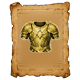
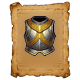
feat(loot): дроп-иконки металлов деривацией (downscale+наклон); золото-снаряжение не монета
tests/gen_loot_icons_derived.py: alpha-crop, поворот 20 (BICUBIC), squash 0.80 (LANCZOS), fit 28; вариант v2_tilt20_squash выбран игроком по контакт-листу и проверен в игре. gold_{weapon,armor}.png созданы впервые; loot_icons.gd: 19-20 металлов, золотое снаряжение рисуется снаряжением (деньги - по-прежнему монета, контракт gold_icon() цел). Свитки рецептов bronze/gold/iron перепечены с новыми иконками металлов (gen_recipe_scrolls.py, item_db без диффа). ИИ-путь gen_loot_icons_kodik.py закрыт квотой 429 - оставлен для истории.

Changed region(s): [[0.25, 0.2, 0.75, 0.725]]

diff --git a/tests/gen_loot_icons_derived.py b/tests/gen_loot_icons_derived.py
@@ -1,0 +1,236 @@
+#!/usr/bin/env python3
+# -*- coding: utf-8 -*-
+"""Дроп-иконки основных металлов: программное уменьшение + наклон одобренных иконок.
+
+ЗАЧЕМ: ИИ-генерация дроп-иконок (tests/gen_loot_icons_kodik.py) встала на квоте
+Gemini (429, журнал 20.10). Дроп-иконка по замыслу — «та же вещь, лежащая на
+земле»: уменьшенный наклонённый силуэт одобренной инвентарной иконки даёт это
+программно, без генераций и без расходов. Источник — уже установленные и
+одобренные игроком иконки атласа предметов (faction_w/common — оружие,
+faction/common — броня); резолв через glob по установленным путям, суффикс
+качества (cheap/common/elite) не хардкодится.
+
+ПРАВИЛО ИГРОКА: ничего не ставится в assets/ без личного одобрения. По умолчанию
+скрипт пишет 4 ВАРИАНТА трансформации в import/loot_icons_derived/ и собирает
+подписанный контакт-лист через skill-скрипт create-game-assets
+(scripts/build_preview_sheet.py). Выбор варианта — за игроком; только затем
+запускается --install, копирующий выбранный вариант в assets/loot_icons/.
+
+РЕСЕМПЛИНГ: downscale LANCZOS + rotate BICUBIC — сознательное отступление от
+«nearest only» из references/raster-pipeline.md: это deliberate preprocessing
+pass маленьких иконок (поворот nearest даёт рваную лесенку), как решено ранее
+в tests/slice_items_atlas.py.
+
+ПОРЯДОК ПРЕОБРАЗОВАНИЙ: alpha-crop → rotate(expand, BICUBIC) → вертикальный
+squash (LANCZOS) → масштаб до fit_px по большей стороне → центровка на холст
+32×32. Масштаб ПОСЛЕ поворота гарантирует, что наклонённый силуэт не вылезет за
+холст (bbox при повороте растёт).
+
+ВАРИАНТЫ (для выбора игроком):
+  v0_flat           — без наклона, только уменьшение
+  v1_tilt10         — наклон 10°
+  v2_tilt20_squash  — наклон 20° + вертикальный squash 0.80 (рекомендация)
+  v3_tilt30_squash  — наклон 30° + вертикальный squash 0.78
+
+Запуск:
+    python tests/gen_loot_icons_derived.py                 # варианты + лист
+    python tests/gen_loot_icons_derived.py --report        # только отчёт
+    python tests/gen_loot_icons_derived.py --variant v2_tilt20_squash --install
+    python tests/gen_loot_icons_derived.py --metals bronze,iron --angle 15
+"""
+
+from __future__ import annotations
+
+import argparse
+import glob as globmod
+import os
+import shutil
+import subprocess
+import sys
+
+from PIL import Image
+
+ROOT = os.path.dirname(os.path.dirname(os.path.abspath(__file__)))
+OUT_DIR = os.path.join(ROOT, "import", "loot_icons_derived")
+LOOT_DIR = os.path.join(ROOT, "assets", "loot_icons")
+SKILL_SHEET = os.path.join(
+    ROOT, ".agents", "skills", "disciplines", "create-game-assets",
+    "scripts", "build_preview_sheet.py",
+)
+SHEET_PATH = os.path.join(OUT_DIR, "_contact_sheet.png")
+
+# Основные металлы (METALS из tests/gen_items_atlas_kodik.py). Steel исключён:
+# его иконки уже есть как base/base_w, а редкие металлы loot_icons не трогаем.
+DEFAULT_METALS = ["bronze", "iron", "gold"]
+
+# Вид -> glob по УСТАНОВЛЕННЫМ одобренным иконкам (не import/_sliced: там
+# суффиксы _good, а установлены _cheap/_common/_elite).
+SOURCE_GLOBS = {
+    "weapon": os.path.join(ROOT, "assets", "items", "faction_w", "common",
+                           "%(metal)s_one_handed_sword_*.png"),
+    "armor": os.path.join(ROOT, "assets", "items", "faction", "common",
+                          "%(metal)s_heavy_chest_*.png"),
+}
+
+# имя варианта -> (угол поворота в градусах, вертикальный squash)
+VARIANTS: dict[str, tuple[float, float]] = {
+    "v0_flat": (0.0, 1.0),
+    "v1_tilt10": (10.0, 1.0),
+    "v2_tilt20_squash": (20.0, 0.80),
+    "v3_tilt30_squash": (30.0, 0.78),
+}
+
+DEFAULT_FIT = 28  # содержимое не больше 28 px внутри холста 32×32
+DEFAULT_CANVAS = 32
+
+
+def resolve_sources(metals: list[str]) -> tuple[dict[tuple[str, str], str], list[str]]:
+    """(metal, kind) -> путь источника; второй возврат — список проблем."""
+    srcs: dict[tuple[str, str], str] = {}
+    problems: list[str] = []
+    for metal in metals:
+        for kind, pattern in SOURCE_GLOBS.items():
+            hits = sorted(globmod.glob(pattern % {"metal": metal}))
+            if not hits:
+                problems.append("%s/%s: нет источника по %s"
+                                % (metal, kind, pattern % {"metal": metal}))
+                continue
+            srcs[(metal, kind)] = hits[0]
+            if len(hits) > 1:
+                print("  ! %s/%s: несколько кандидатов, взят первый: %s"
+                      % (metal, kind, ", ".join(os.path.basename(h) for h in hits)))
+    return srcs, problems
+
+
+def derive(src: Image.Image, angle: float, squash: float, fit_px: int,
+           canvas_size: int) -> Image.Image:
+    """Одобренная иконка -> дроп-иконка: crop, поворот, squash, масштаб, центр."""
+    img = src.convert("RGBA")
+    alpha = img.split()[-1]
+    bbox = alpha.getbbox()
+    if bbox is None:
+        raise ValueError("источник полностью прозрачен")
+    img = img.crop(bbox)
+    if angle:
+        img = img.rotate(angle, resample=Image.Resampling.BICUBIC, expand=True)
+    if squash != 1.0:
+        h = max(1, round(img.height * squash))
+        img = img.resize((img.width, h), Image.Resampling.LANCZOS)
+    scale = min(1.0, fit_px / max(img.width, img.height))
+    if scale < 1.0:
+        img = img.resize(
+            (max(1, round(img.width * scale)), max(1, round(img.height * scale))),
+            Image.Resampling.LANCZOS,
+        )
+    canvas = Image.new("RGBA", (canvas_size, canvas_size), (0, 0, 0, 0))
+    canvas.alpha_composite(
+        img,
+        ((canvas_size - img.width) // 2, (canvas_size - img.height) // 2),
+    )
+    return canvas
+
+
+def build_sheet(files: list[str]) -> bool:
+    """Контакт-лист через skill-скрипт create-game-assets (подписи = имена файлов)."""
+    if not os.path.isfile(SKILL_SHEET):
+        print("  ! skill-скрипт не найден, лист не построен: %s" % SKILL_SHEET)
+        return False
+    cmd = [sys.executable, SKILL_SHEET, *files,
+           "--out", SHEET_PATH, "--columns", "4", "--cell-size", "160"]
+    r = subprocess.run(cmd, capture_output=True, text=True)
+    if r.returncode != 0:
+        print("  ! контакт-лист не построился: %s" % (r.stderr.strip() or r.stdout.strip()))
+        return False
+    print("  OK лист: %s" % os.path.relpath(SHEET_PATH, ROOT))
+    return True
+
+
+def main() -> int:
+    ap = argparse.ArgumentParser()
+    ap.add_argument("--metals", default=",".join(DEFAULT_METALS),
+                    help="металлы через запятую (по умолчанию bronze,iron,gold)")
+    ap.add_argument("--angle", type=float, default=None,
+                    help="угол наклона для варианта custom (градусы)")
+    ap.add_argument("--squash", type=float, default=None,
+                    help="вертикальный squash для варианта custom (1.0 = нет)")
+    ap.add_argument("--fit", type=int, default=DEFAULT_FIT,
+                    help="максимальная сторона содержимого, px (по умолчанию 28)")
+    ap.add_argument("--size", type=int, default=DEFAULT_CANVAS,
+                    help="сторона выходного холста, px (по умолчанию 32)")
+    ap.add_argument("--variant", default=None,
+                    help="один вариант из списка (для точечной установки)")
+    ap.add_argument("--install", action="store_true",
+                    help="скопировать выбранный вариант в assets/loot_icons/")
+    ap.add_argument("--report", action="store_true",
+                    help="только отчёт по источникам, файлы не писать")
+    ap.add_argument("--no-sheet", action="store_true",
+                    help="не строить контакт-лист")
+    args = ap.parse_args()
+
+    metals = [m.strip().lower() for m in args.metals.split(",") if m.strip()]
+    if args.angle is not None or args.squash is not None:
+        todo = {"custom": (args.angle or 0.0, args.squash if args.squash is not None else 1.0)}
+    elif args.variant:
+        if args.variant not in VARIANTS:
+            print("RESULT: FAIL — нет варианта %s (есть: %s)"
+                  % (args.variant, ", ".join(VARIANTS)))
+            return 1
+        todo = {args.variant: VARIANTS[args.variant]}
+    else:
+        todo = dict(VARIANTS)
+
+    srcs, problems = resolve_sources(metals)
+    if problems:
+        for p in problems:
+            print("  ! %s" % p)
+        print("RESULT: FAIL — не найдены источники (%d)" % len(problems))
+        return 1
+
+    print("-- источники (одобрены игроком 20.10) --")
+    for (metal, kind), path in sorted(srcs.items()):
+        with Image.open(path) as im:
+            size = "%dx%d" % (im.width, im.height)
+        print("  %s/%s: %s (%s)" % (metal, kind, os.path.relpath(path, ROOT), size))
+    if args.report:
+        print("DRY-RUN: вариантов %d, металлов %d" % (len(todo), len(metals)))
+        print("RESULT: OK report")
+        return 0
+
+    os.makedirs(OUT_DIR, exist_ok=True)
+    written: list[str] = []
+    print("-- деривация: crop -> rotate -> squash -> fit %d -> canvas %d --"
+          % (args.fit, args.size))
+    for (metal, kind), src_path in sorted(srcs.items()):
+        with Image.open(src_path) as src:
+            for vname, (angle, squash) in sorted(todo.items()):
+                img = derive(src, angle, squash, args.fit, args.size)
+                name = "%s_%s_%s.png" % (metal, kind, vname)
+                out_path = os.path.join(OUT_DIR, name)
+                img.save(out_path, "PNG")
+                written.append(out_path)
+                print("  OK %s (угол %.0f, squash %.2f)" % (name, angle, squash))
+
+    if todo and not args.no_sheet:
+        build_sheet(written)
+
+    if args.install:
+        if len(todo) != 1:
+            print("RESULT: FAIL — --install требует ровно один вариант (--variant или --angle/--squash)")
+            return 1
+        vname = next(iter(todo))
+        copied = 0
+        for (metal, kind), _src in sorted(srcs.items()):
+            src_png = os.path.join(OUT_DIR, "%s_%s_%s.png" % (metal, kind, vname))
+            dst = os.path.join(LOOT_DIR, "%s_%s.png" % (metal, kind))
+            shutil.copyfile(src_png, dst)
+            copied += 1
+            print("  OK install %s -> %s" % (os.path.basename(src_png), os.path.relpath(dst, ROOT)))
+        print("Установлено: %d (вариант %s)" % (copied, vname))
+
+    print("Итого файлов: %d" % len(written))
+    print("RESULT: OK loot_icons_derived (%d металлов, %d вариантов)" % (len(metals), len(todo)))
+    return 0
+
+
+if __name__ == "__main__":
+    sys.exit(main())

diff --git a/tests/gen_loot_icons_kodik.py b/tests/gen_loot_icons_kodik.py
@@ -1,0 +1,86 @@
+#!/usr/bin/env python3
+"""Дроп-иконки (видна на земле при выпадении из НПЦ) для 3 металлов (20.10).
+
+Отличие от gen_items_atlas_kodik.py (иконки инвентаря): здесь предмет лежит
+НА ЗЕМЛЕ, вид чуть сверху (как в игре смотрит герой), читаемый силуэт.
+Раскладка и карты ячеек - те же, что у инвентарных атласов, поэтому нарезка
+идёт тем же slice_items_atlas.py (импорт WEAPON_MAP/ARMOR_MAP/slice_sheet).
+
+Usage:
+  python tests/gen_loot_icons_kodik.py                # 6 листов
+  python tests/gen_loot_icons_kodik.py --only bronze  # один металл
+"""
+import argparse
+import sys
+from pathlib import Path
+
+sys.path.insert(0, str(Path(__file__).resolve().parent))
+import gen_items_atlas_kodik as G  # noqa: E402
+from gen_image_kodik import load_key  # noqa: E402
+
+REPO = Path(__file__).resolve().parent.parent
+OUT_ROOT = REPO / "import" / "loot_icons"
+
+GROUND_STYLE = (
+    "Sprite sheet for game, retro fantasy RPG pixel art dropped loot icons, "
+    "32-bit era style, crisp pixel edges, dark tinted outline (not pure "
+    "black), light from upper left, each item LYING FLAT ON THE GROUND as "
+    "if dropped by a defeated monster, slight top-down three-quarter view, "
+    "flat solid magenta #FF00FF background, items laid out in a neat "
+    "regular GRID with equal spacing, each item centered in its grid cell, "
+    "item fully inside its cell, no small details, no ribbons, no banners, "
+    "no straps, no text, no labels, no numbers, no shadows outside items"
+)
+
+
+def loot_prompt(metal: str, info: dict, kind: str) -> str:
+    if kind == "weapons":
+        lines = [f"{G.WEAPON_DESC[w]} made of {info['desc']}" for w in G.WEAPONS]
+        n = len(G.WEAPONS)
+    else:
+        lines = [f"{G.ARMOR_DESC[a]} with {info['desc']} accents" for a in G.ARMOR]
+        n = len(G.ARMOR)
+    return (f"4x4 grid sheet with exactly {n} icons, one per cell, "
+            f"reading order left to right top to bottom: " + "; ".join(lines)
+            + ". " + GROUND_STYLE)
+
+
+def main() -> int:
+    try:
+        sys.stdout.reconfigure(encoding="utf-8", errors="replace")
+    except Exception:
+        pass
+    ap = argparse.ArgumentParser(description=__doc__)
+    ap.add_argument("--model", default="google/gemini-nano-banana-2.1")
+    ap.add_argument("--only", default="", help="bronze|iron|gold")
+    ap.add_argument("--dry-run", action="store_true")
+    ap.add_argument("--force", action="store_true")
+    args = ap.parse_args()
+
+    key = load_key()
+    results = []
+    for metal, info in G.METALS.items():
+        if args.only and metal != args.only:
+            continue
+        for kind in ("weapons", "armor"):
+            out = OUT_ROOT / metal / ("%s_%s.png" % (metal, kind))
+            prompt = loot_prompt(metal, info, kind)
+            if args.dry_run:
+                print("--- %s %s ---\n%s\n" % (metal, kind, prompt))
+                continue
+            if out.exists() and not args.force:
+                print("SKIP %s (есть)" % out.name)
+                continue
+            try:
+                results.append(G.gen(key, args.model, prompt, out))
+            except Exception as e:
+                print("FAIL %s %s: %s" % (metal, kind, e))
+    if results:
+        import json
+        (OUT_ROOT / "summary.json").write_text(
+            json.dumps(results, indent=2, ensure_ascii=False), encoding="utf-8")
+    return 0
+
+
+if __name__ == "__main__":
+    raise SystemExit(main())

diff --git a/assets/loot_icons/README.md b/assets/loot_icons/README.md
@@ -4,21 +4,25 @@
 
 ---
 
-## Мечи (Swords) — 19 файлов
+## Мечи (Swords) — 20 файлов
 
 Выпадают с убитых врагов как лут.
 
-**Формат:** 32×32 PNG, прозрачный фон, 3D-рендер (перекраска реального фото).
+**Формат:** 32×32 PNG, прозрачный фон. Редкие металлы — 3D-рендер (перекраска
+реального фото); bronze/iron/gold с 20.10 — производные от одобренного атласа
+предметов (см. «Обновление 20.10» ниже).
 
 **Именование:** `{material}_weapon.png`
 
 ---
 
-## Нагрудники (Chest Armor) — 19 файлов
+## Нагрудники (Chest Armor) — 20 файлов
 
 Выпадают с убитых врагов как лут.
 
-**Формат:** 32×32 PNG, прозрачный фон, 3D-рендер (перекраска реального фото).
+**Формат:** 32×32 PNG, прозрачный фон. Редкие металлы — 3D-рендер (перекраска
+реального фото); bronze/iron/gold с 20.10 — производные от одобренного атласа
+предметов (см. «Обновление 20.10» ниже).
 
 **Именование:** `{material}_armor.png`
 
@@ -55,6 +59,31 @@
 
 ---
 
+## Обновление 20.10 — bronze/iron/gold: программные дроп-иконки
+
+`{bronze,iron,gold}_{weapon,armor}.png` перезаписаны; `gold_{weapon,armor}.png`
+созданы впервые — раньше в loot_icons золотого снаряжения не было, и любая
+вещь с material="gold" рисовалась на земле монетой (`LootIcons.icon_for` →
+`gold_icon()`).
+
+- **Источник:** одобренные игроком иконки атласа предметов (установлены 20.10) —
+  `assets/items/faction_w/common/{metal}_one_handed_sword_*.png` (оружие) и
+  `assets/items/faction/common/{metal}_heavy_chest_*.png` (броня), 72×80.
+- **Трансформация** (программная, без ИИ-генераций): alpha-crop → поворот 20°
+  (BICUBIC) → вертикальный squash ×0.80 (LANCZOS) → масштаб до 28 px по большей
+  стороне → центровка на холст 32×32. Отступление от «nearest only»
+  (references/raster-pipeline.md) — сознательный preprocessing pass, как решено
+  в tests/slice_items_atlas.py: поворот nearest даёт рваную лесенку на кромках.
+- **Скрипт:** `tests/gen_loot_icons_derived.py` (чистый PIL). Превью 4 вариантов:
+  `import/loot_icons_derived/_contact_sheet.png`; вариант `v2_tilt20_squash`
+  выбран игроком 20.10, установлен `--variant v2_tilt20_squash --install`.
+- **Код:** `LootIcons.icon_for` больше не подменяет золотое снаряжение монетой;
+  деньги по-прежнему монета — `loot_drop.gd` зовёт `gold_icon()` напрямую.
+- **ИИ-путь отменён:** `tests/gen_loot_icons_kodik.py` (генерация картинок
+  nano-banana) встал на квоте Gemini (429) и закрыт программной деривацией.
+
+---
+
 ## Материалы и фракции
 
 ### Базовые (общие для всех)
@@ -63,6 +92,7 @@
 | bronze | коричневый (184, 115, 51) |
 | iron | серый (120, 120, 125) |
 | steel | светло-серый (192, 192, 200) |
+| gold | жёлтый металл (дроп-иконки с 20.10 — из атласа предметов) |
 
 ### Альянс Света
 | Материал | Цвет |
@@ -130,3 +160,5 @@ sprite.play()
 - `recolor_armor.py` — нагрудники 32×32
 - `recolor_ingots.py` — слитки 80×80
 - `generate_potion_icons.py` — бутылки 32×32 (4 кадра анимации)
+- `tests/gen_loot_icons_derived.py` — bronze/iron/gold дроп-иконки из
+  одобренного атласа предметов (уменьшение + наклон, обновление 20.10)
